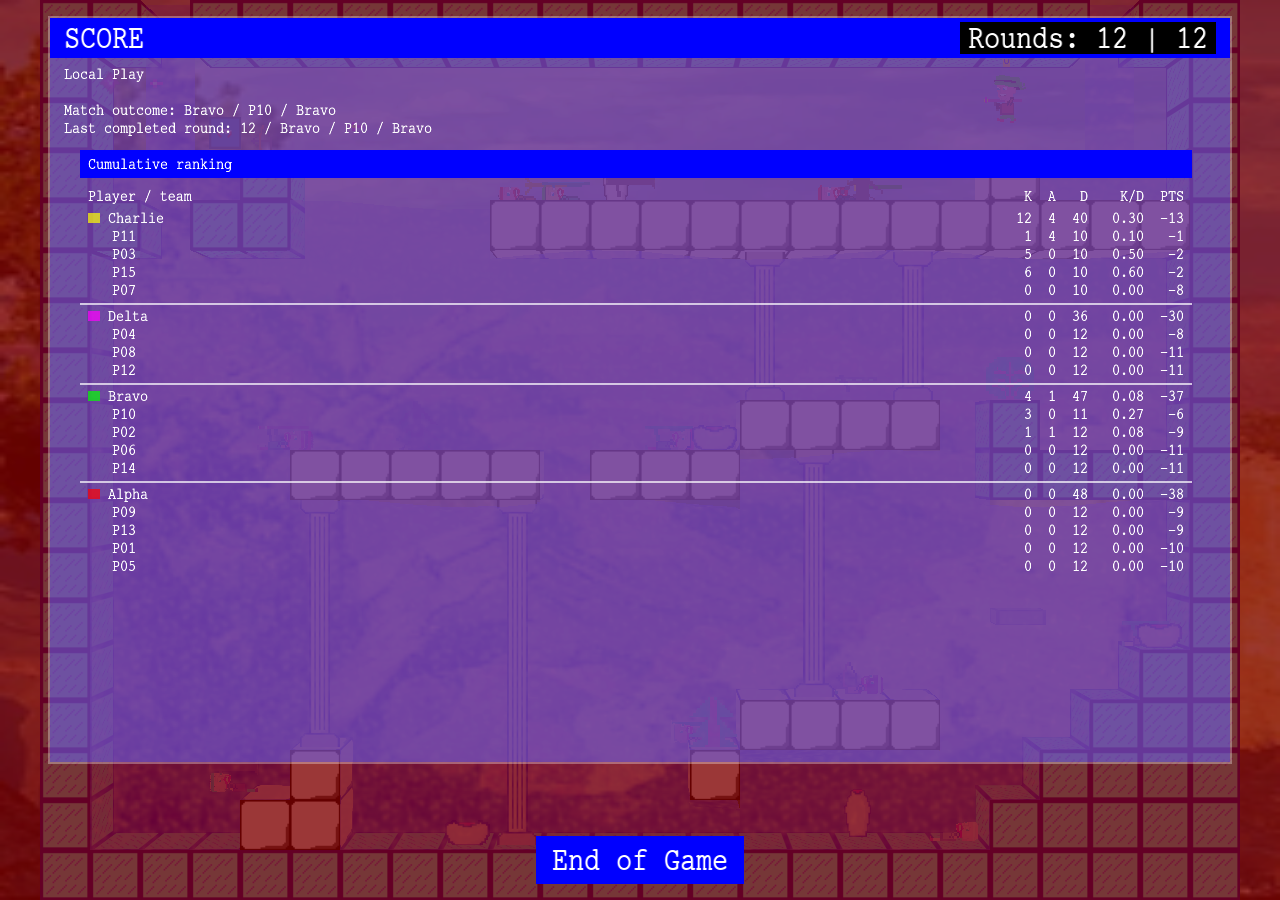
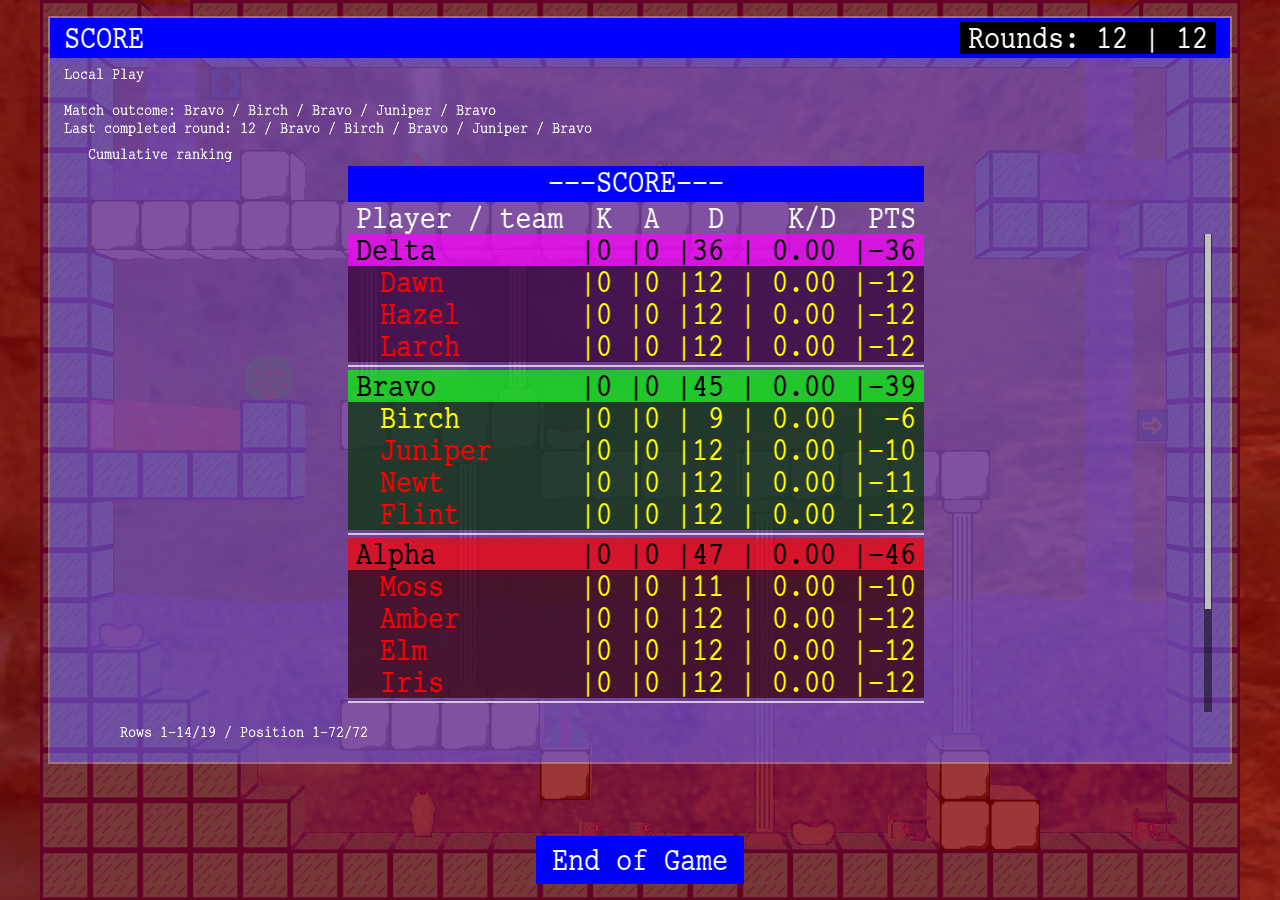
Integrate accepted final-scoreboard visual evidence

diff --git a/docs/design/screenshots/README.md b/docs/design/screenshots/README.md
@@ -8,9 +8,9 @@ Retain profile `L`: native Linux x86-64 client, Docker Release GL4/Lua ON, shipp
 
 | Existing screen / wireframe | Actual route and representative | Viewport | Changed visible criteria | Destination / status |
 |---|---|---|---|---|
-| OVER-03 / OVER-03 / FS-L | Finite offline Local Play, 15 players in four teams (4/4/4/3), completed final wait. Retain the existing 12-round, final-winner-different-from-cumulative-leader recipe and actual nonzero statistics. Start at cumulative ranking. | L, 1280 × 900 | 32 px score headings/rows, reference score strip, content-width centering where it fits, named colored Team rows and subdued nested rows, pipe separators and unchanged Team bands. Fixed outcomes, counter, blank local action allocation and End of Game remain separate. Required lower rows remain accessible by existing navigation. | `docs/design/screenshots/OVER-03/OVER-03.png` — Pending affected-table replacement |
-| NET-06 / NET-06 / FS-N | Actual connected Host/controller, finite Team completion using the existing 15-player/four-team/12-round nonleader-final-winner recipe. Start at cumulative ranking with Return to lobby initially focused. | L, 1280 × 900 | Same score-table type, strip, fills and separators as local for equivalent data; retained player names are neutral white because life state is unavailable. Player values/pipes stay yellow. Wide network identity/statistics content stays bounded and accessible. Fixed Completed/session-only/outcome copy, both Host actions and End of Game remain unchanged. | `docs/design/screenshots/NET-06/NET-06.png` — Pending affected-table evidence |
-| OVER-03 / OVER-03, non-Team supplement, not another representative entry | Actual three-player finite Deathmatch completion with established living/dead identities and nonzero statistics. Short names allow the whole score table to fit. Values and names need not reproduce the historical reference. | L, 1280 × 900 | Reference blue player rows, yellow values/pipes, life-state name colors, 32 px rhythm and centered fit-width score strip inside the retained final shell. No Team bands, non-final progress row or restored live HUD. | `docs/design/screenshots/OVER-03/evidence/reference-style-deathmatch-1280x900.png` — Pending |
+| OVER-03 / OVER-03 / FS-L | Finite offline Local Play, 15 players in four teams (4/4/4/3), completed final wait. Retain the existing 12-round, final-winner-different-from-cumulative-leader recipe and actual nonzero statistics. Start at cumulative ranking. | L, 1280 × 900 | 32 px score headings/rows, reference score strip, content-width centering where it fits, named colored Team rows and subdued nested rows, pipe separators and unchanged Team bands. Fixed outcomes, counter, blank local action allocation and End of Game remain separate. Required lower rows remain accessible by existing navigation. | `docs/design/screenshots/OVER-03/OVER-03.png` — Accepted supplied original; exact-byte integration pending |
+| NET-06 / NET-06 / FS-N | Actual connected Host/controller, finite Team completion using the existing 15-player/four-team/12-round nonleader-final-winner recipe. Start at cumulative ranking with Return to lobby initially focused. | L, 1280 × 900 | Same score-table type, strip, fills and separators as local for equivalent data; retained player names are neutral white because life state is unavailable. Player values/pipes stay yellow. Wide network identity/statistics content stays bounded and accessible. Fixed Completed/session-only/outcome copy, both Host actions and End of Game remain unchanged. | `docs/design/screenshots/NET-06/NET-06.png` — Accepted supplied original; exact-byte integration pending |
+| OVER-03 / OVER-03, non-Team supplement, not another representative entry | Actual three-player finite Deathmatch completion with established living/dead identities and nonzero statistics. Short names allow the whole score table to fit. Values and names need not reproduce the historical reference. | L, 1280 × 900 | Reference blue player rows, yellow values/pipes, life-state name colors, 32 px rhythm and centered fit-width score strip inside the retained final shell. No Team bands, non-final progress row or restored live HUD. | `docs/design/screenshots/OVER-03/evidence/reference-style-deathmatch-1280x900.png` — Accepted supplied original; exact-byte integration pending |
 
 Use one coordinated developer handoff after the candidate's routine checks and team capture preflight. The existing FS-L/FS-N rows retain their identities, not a second parallel campaign. Source-tied developer observations must cover the following affected risks; diagnostic full-client originals are needed only where an observation is inconclusive or exposes a visual finding:
 
@@ -21,7 +21,38 @@ Use one coordinated developer handoff after the candidate's routine checks and t
 
 For each new original supply immutable candidate/branch and uncommitted presentation differences, fixed specification/SVG identity, acquisition time, route/state/role, actual roster/result setup, viewport, renderer/environment, runtime/assets identity, application identity, path and SHA-256. Network observations also identify actual session/backend and participant ownership without secrets. Record unavailable provenance rather than substitute historical producer identities. Developer owns hashes and capture; UX assesses the completed supplied set once and updates this manifest, not the fixed expectations.
 
-**Evidence preservation:** the historical reference is appearance intent, not a current result artifact. Existing FS-L and network focused originals retain their true producer and prior shell/outcome/footer scope; they do not establish the changed score typography, row surfaces, widths or overflow. Replace only affected canonical destinations after assessment. Unchanged OVER-01/OVER-02, menus, arena/temporal, platform and retained-lobby evidence remains reusable within its original scope. The broader matrix's outstanding AP-N, FS-N/FS-G scenarios and other obligations remain separately identified: this refinement neither closes them nor requests an unrelated acquisition campaign. Refresh supporting outcome/recovery evidence only if implementation changes those consuming paths. No current candidate SHA or new capture is claimed by this planned matrix.
+**Evidence preservation:** the historical reference is appearance intent, not a current result artifact. Existing FS-L and network focused originals retain their true producer and prior shell/outcome/footer scope; they do not establish the changed score typography, row surfaces, widths or overflow. Replace only affected canonical destinations after assessment. Unchanged OVER-01/OVER-02, menus, arena/temporal, platform and retained-lobby evidence remains reusable within its original scope. The broader matrix's outstanding AP-N, FS-N/FS-G scenarios and other obligations remain separately identified: this refinement neither closes them nor requests an unrelated acquisition campaign. Refresh supporting outcome/recovery evidence only if implementation changes those consuming paths. Current producer identities and scoped conformance are recorded below.
+
+### Current refinement assessment
+
+**Visual gate: satisfied for the reference-style refinement only.** The supplied originals and focused observations conform to the fixed matrix introduced at `f42c595aaf0dd70efd8dda9af329f4169b9e8678` and the appearance documents/SVGs at producer `a9458595323bac766677d7bed03cfc66d7a046e3`, branch `feature/unify-final-scoreboard`. No uncommitted presentation differences are reported. This assessment does not close the broader arena/temporal matrix or native FS-G.
+
[1 lines of base64/hex data omitted]
+
+In the tables below, `R` is `build/final-scoreboard-recovery/`; destinations are relative to `docs/design/screenshots/`. UTC times are PNG write completion on 2026-11-20, not GPU-present timestamps. Developer verified export hashes and runtime immutability. UX inspected the listed representatives and distinct focused states; byte-identical duplicate frames add no separate coverage.
+
+| Representative / exact original under R | Accepted destination | UTC / supplied SHA-256 | Actual state and conformance |
+|---|---|---|---|
[3 lines of base64/hex data omitted]
+
[1 lines of base64/hex data omitted]
+
+The following source-tied focused observations are accepted for this refinement, not additional permanent representative destinations. Local originals are native 1280 × 720, captured between 00:39:28 and 00:42:24; Guest originals are native 850 × 700, captured between 01:37:42 and 01:38:05. The same producer/runtime identities above apply.
+
+| Focused coverage / exact originals under R | Supplied SHA-256 / accepted observation |
+|---|---|
[6 lines of base64/hex data omitted]
+
+**Qualified carry:** Guest720 outcome/departure projection remains unchanged versus `6e26d4ba38a92be32cbd302ab28c66fb720b70bd` (`source/NetworkMenu.cpp:279–302`); bounded outcome generation and compact outcome-table allocation remain unchanged (`source/FinalSummaryPresentation.cpp:60–110,222–235`, `.h:51–56`). Shared size-aware clipping, table-specific sticky headings and horizontal clamping are changed paths, covered by the supplied candidate checks and current Guest850 observations, not a blanket unchanged-renderer claim. Retained passing checks include `tests/FinalSummaryPresentationTests.cpp:180–205,385–424` and `tests/NetworkSessionRuntimeTests.cpp:6181–6194,6468–6571`: Guest720 fourteen-winner identities/Departed, mixed-size containment, action geometry and the production long-historical-winner consumer. They are regression/consumer evidence, not a native fourteen-winner journey. Existing No winner images prove no multiwinner content; broader native FS-G remains unproved.
+
+The committed [1920 × 1080 focused evidence](#focused-1920--1080-completion) retains producer `8b1e4a32fb70465df5c5828cb7701f7f35a80fed` and its original hashes/environment. Carry covers unchanged Host footer focus, Tab, pointer confirmation and Cancel restoration only, not changed score-body overflow. Footer rectangles/action order/hit testing and confirmation routing are unaffected by score metrics. The supplied 29/29 routine developer checks and accepted source review remain applicable to this unchanged producer; no new test execution, independent QA, other-platform conformance or post-synchronization producer is asserted.
 
 ## Non-final counter placement
 
